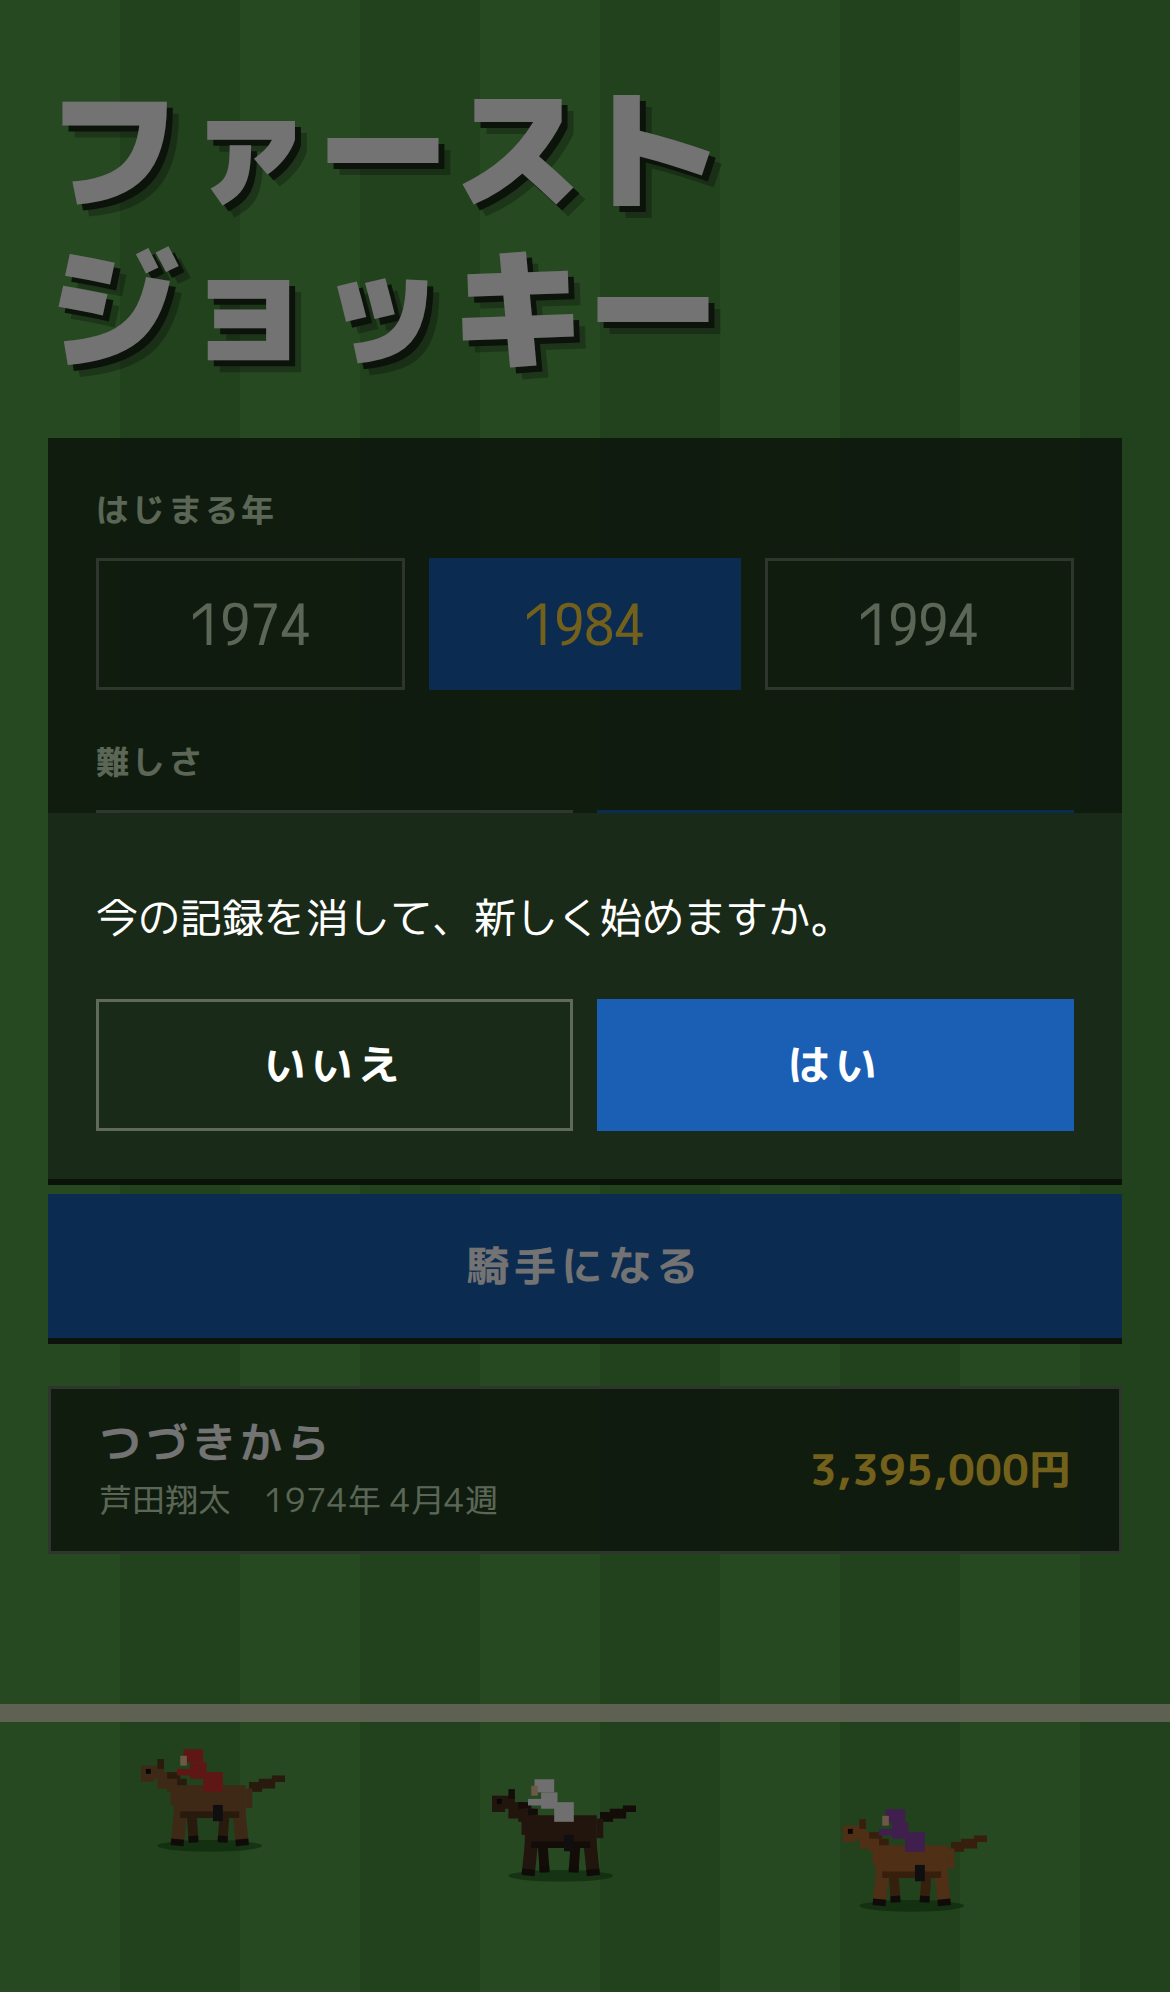
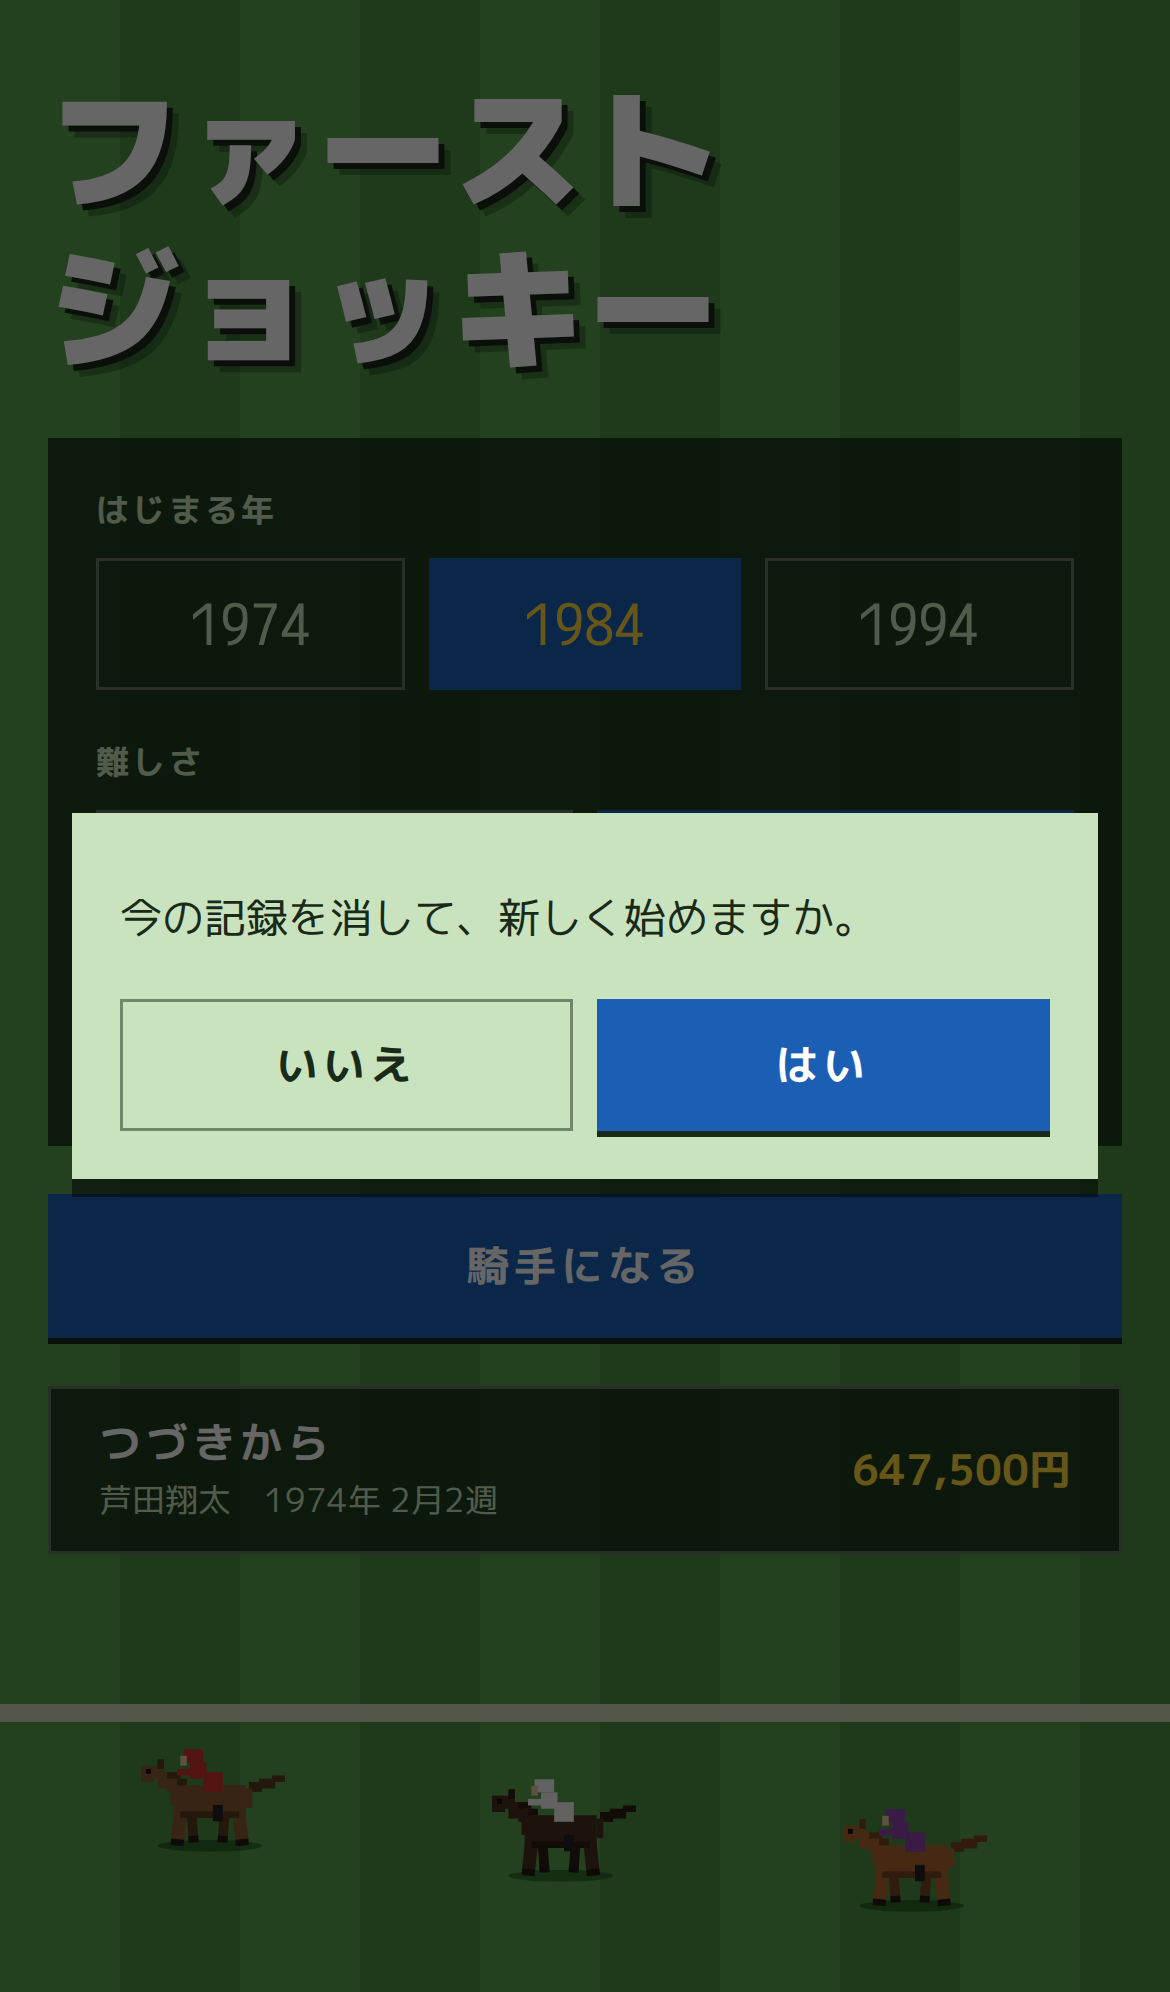
本筋4を完了：上書きの確認の小窓を手前の面に直し、記録を仕上げた
⚠絵を見たところ小窓の地が後ろの窓と同じ暗い緑系で、別の面として立たず
「難しさ」の行を切っている崩れに見えたため、地を--mutedの明るい面にし、
左右を--s1ずつ狭め、ぼかしの無い影で浮かせた。新しい色は足していない。

ARCHITECTURE.md §14にpropsの形・案Bの決まり・触ると壊れる点（名前と日付の
nowrap）・既知の制限（iPhone SEで52px伸びる）を記載。TODO #13は完了につき削除。

⚠ARCHITECTURE.mdが64,563バイトになりReadの上限を超えたため#103に上げた。

Claude-Session: https://claude.ai/code/session_01HkysCVjR5EveLfErmFi38W

Changed region(s): [[0.0615, 0.4046, 0.9538, 0.6225], [0.6769, 0.7159, 0.8308, 0.747], [0.3692, 0.747, 0.4, 0.7781]]

diff --git a/src/screens/TitleScreen.css b/src/screens/TitleScreen.css
@@ -225,29 +225,35 @@
   white-space: nowrap;
 }
 
-/* ===== 上書きの確認：画面を覆う小窓 ===== */
+/* ===== 上書きの確認：画面を覆う小窓 =====
+   小窓の地は、この画面で唯一の明るい面（`--muted`の淡い緑）。役割＝「手前に出て画面を止める面」。
+   最初は後ろの窓と同じ`#1a2a18`で作ったが、後ろの窓（`--panel`）と同じ色・同じ幅だったため
+   別の面に見えず、後ろの選択肢を途中で切る形が表示の崩れに見えた（2026-09-19・実アプリで確認）。
+   直し：地を明るくし、文字を暗くし、左右を後ろの窓より`--s1`ずつ狭めて後ろの窓の縁を見せ、
+   硬い影を落として浮かせた。新しい色は足していない（`--muted`は既存。文字の暗色は窓の色`#1a2a18`）。 */
 
 .title-screen__modal {
   position: absolute;
   inset: 0;
   z-index: 5;
-  background: rgba(0, 0, 0, 0.55);
+  background: rgba(0, 0, 0, 0.6);
   display: flex;
   align-items: center;
   justify-content: center;
-  padding: var(--s2);
+  padding: var(--s3);
 }
 .title-screen__modal-box {
   width: 100%;
   max-width: 400px;
-  background: #1a2a18;
+  background: var(--muted);
+  color: #1a2a18;
   padding: var(--s3) var(--s2) var(--s2);
-  box-shadow: 0 2px 0 #0a120a;
+  box-shadow: 0 6px 0 rgba(0, 0, 0, 0.5);
 }
 .title-screen__confirm-msg {
   font-size: var(--fs-body);
   line-height: 1.6;
-  color: #fff;
+  color: #1a2a18;
   margin: 0 0 var(--s2);
 }
 .title-screen__confirm-btns {
@@ -258,7 +264,7 @@
 .title-screen__confirm-btns .title-screen__start {
   min-height: var(--tap);
 }
-/* 塗らないボタン（「いいえ」）。未選択の選択肢と同じ1px枠 */
+/* 塗らないボタン（「いいえ」）。明るい地の上なので、枠と文字は窓の暗色 */
 .title-screen__ghost {
   all: unset;
   box-sizing: border-box;
@@ -268,18 +274,19 @@
   display: flex;
   align-items: center;
   justify-content: center;
-  border: 1px solid rgba(255, 255, 255, 0.3);
-  color: #fff;
+  border: 1px solid rgba(26, 42, 24, 0.5);
+  color: #1a2a18;
   font-family: "M PLUS 1p", sans-serif;
   font-weight: 700;
   font-size: var(--fs-body);
   letter-spacing: 0.12em;
 }
 .title-screen__ghost:hover {
-  border-color: rgba(255, 255, 255, 0.55);
+  border-color: #1a2a18;
 }
-.title-screen__ghost:focus-visible {
-  outline: 2px solid var(--accent);
+.title-screen__ghost:focus-visible,
+.title-screen__modal-box .title-screen__start:focus-visible {
+  outline: 2px solid #1a2a18;
   outline-offset: 2px;
 }
 

diff --git a/design/mocks/title-continue-v2.html b/design/mocks/title-continue-v2.html
@@ -110,15 +110,17 @@ h2 small{display:block;font-size:var(--fs-body);font-weight:400;color:#9fb896;ma
 .strip__money{flex:none;font-size:var(--fs-body);font-weight:700;color:var(--accent);font-variant-numeric:tabular-nums;white-space:nowrap}
 
 /* 上書きの確認：画面を覆う小窓（.title-screen の直下に置き、馬の帯まで含めて覆う） */
-.modal{position:absolute;inset:0;z-index:5;background:rgba(0,0,0,.55);display:flex;align-items:center;justify-content:center;padding:var(--s2)}
-.modal__box{width:100%;max-width:400px;background:#1a2a18;padding:var(--s3) var(--s2) var(--s2);box-shadow:0 2px 0 #0a120a}
-.cf__msg{font-size:var(--fs-body);line-height:1.6;color:#fff;margin-bottom:var(--s2)}
+/* 小窓の地は`--muted`（この画面で唯一の明るい面）。後ろの窓と同じ暗色・同じ幅だと別の面に見えなかったので、
+   地を明るく・文字を暗く・左右を`--s1`ずつ狭めて後ろの窓の縁を見せ・硬い影で浮かせた（2026-09-19の直し） */
+.modal{position:absolute;inset:0;z-index:5;background:rgba(0,0,0,.6);display:flex;align-items:center;justify-content:center;padding:var(--s3)}
+.modal__box{width:100%;max-width:400px;background:var(--muted);color:#1a2a18;padding:var(--s3) var(--s2) var(--s2);box-shadow:0 6px 0 rgba(0,0,0,.5)}
+.cf__msg{font-size:var(--fs-body);line-height:1.6;color:#1a2a18;margin-bottom:var(--s2)}
 .cf__btns{display:grid;grid-template-columns:1fr 1fr;gap:var(--s1)}
 .cf__btns .title-screen__start{min-height:var(--tap)}
 /* 塗らないボタン（「いいえ」）。未選択の選択肢と同じ1px枠 */
-.ts-ghost{all:unset;box-sizing:border-box;cursor:pointer;width:100%;min-height:var(--tap);display:flex;align-items:center;justify-content:center;border:1px solid rgba(255,255,255,.3);color:#fff;font-family:"M PLUS 1p",sans-serif;font-weight:700;font-size:var(--fs-body);letter-spacing:.12em}
-.ts-ghost:hover{border-color:rgba(255,255,255,.55)}
-.ts-ghost:focus-visible{outline:2px solid var(--accent);outline-offset:2px}
+.ts-ghost{all:unset;box-sizing:border-box;cursor:pointer;width:100%;min-height:var(--tap);display:flex;align-items:center;justify-content:center;border:1px solid rgba(26,42,24,.5);color:#1a2a18;font-family:"M PLUS 1p",sans-serif;font-weight:700;font-size:var(--fs-body);letter-spacing:.12em}
+.ts-ghost:hover{border-color:#1a2a18}
+.ts-ghost:focus-visible{outline:2px solid #1a2a18;outline-offset:2px}
 </style></head><body><div class="wrap">
 
 <h1>タイトル画面「つづきから」v2</h1>

diff --git a/TODO.md b/TODO.md
@@ -64,8 +64,8 @@
    ⭐**背後のロジック（土日の割り当て・1日1場・断るコスト・重賞に乗れるかの判定）は
    2026-09-17に実装・実測済み**（`devlog/wave09.md`§10）。⚠**残る前提は#89（行けない
    競馬場の依頼が混ざる週の見せ方）——画面の実装と合わせて決める。**
-4. **セーブを作る**（#13）。⭐**ロジックは2026-09-19に完了**（IndexedDBへ1人1件の自動セーブ・
-   `devlog/wave10.md`§11）。残るのはタイトル画面「つづきから」ボタンの見た目（#13）。
+4. ~~**セーブを作る**~~ ⭐**2026-09-19に完了**（`devlog/wave10.md`§11・§12）。
+   IndexedDBへ1人1件の自動セーブ＋タイトル画面の「つづきから」（案B）＋上書きの確認。
 5. **ユーザーが1年目を通しプレイ**。
 
 ## やらないと決めたこと（再提案しないこと）
@@ -215,13 +215,6 @@
     ⚠「NPC騎手にプレイヤー専用の分岐を作らない」（§6）を守るなら、**新人ランクのNPCにも
     プレイヤーと同じ生成規則を適用する**のが筋。⑦のsim実装か、1年目のバランス計測で
     数値が出た時点で対応する。
-
-13. ⭐**セーブのロジックは2026-09-19に完了**（IndexedDBへ1人1件の自動セーブ。仕様は
-    `ARCHITECTURE.md`§14・経緯は`devlog/wave10.md`§11）。**残るのはタイトル画面
-    「つづきから」ボタンの見た目だけ**——`TitleScreen.jsx`は2026-09-06にFableの§8手順で
-    確定済みの画面なので、新しい要素を足すには同じ手順（候補提示→選択→合意→実装）を
-    もう一度通す必要がある。ロジック側（`hasSave`/`onContinue`のprops）は`app.jsx`に
-    配線済みなので、Fableの手順②は見た目だけ作ればよい。
 
 15. ⚠**JRA番組表PDFの復号ルートを作る**（2026-09-04の調査で道筋が見えた・`devlog/wave02.md`）。
     ARCHITECTURE.md §3が「1年分の番組表＝未解決」としている件。**`pypdf` 6.16.2はプリインストール済み**で
@@ -548,6 +541,14 @@
      ⭐**本筋4で「つづきから」に所持金を出すと決めたため、増えるだけの数字を
      タイトル画面に出すことになる。** CLAUDE.md §0-2「奪う側の設計」に関わる。
      #27（平日の行動の配線）と同時に見ること。
+
+103. ⚠**`ARCHITECTURE.md`が64,563バイトになり、1回のReadで読み切れる上限を超えた**
+     （2026-09-19・本筋4の§14を書き足した時点で実測）。CLAUDE.md §4の換算（約2.5〜2.6バイト/
+     トークン・Read上限25,000トークン＝実質64,000バイト）を超えている。
+     ⚠**切り捨ては末尾から起きるので、真っ先に読めなくなるのは末尾の§15
+     「未定義のまま実装に入ると詰まる箇所」**——2026-09-04に一度同じ事故を起こした場所である。
+     ⭐直し方は前回と同じ：大きい節を`arch/*.md`へ切り出し、本体には索引だけを残す。
+     候補は§6「奪う器官」（信頼・落馬・疲労・所属）と§11「導入（最初の3分）」。
 
 ## ユーザー作業（未完了）
 

diff --git a/ARCHITECTURE.md b/ARCHITECTURE.md
@@ -743,10 +743,22 @@ A/B比較では各アームの直前に**全アーム共通の副シードへ張
 - **夢の馬のID**（`dreamHorseId`）は`generateDreamHorse(saveSeed)`が`saveSeed`だけから決定的に
   導出する純関数なので、`saveSeed`さえ保存されていれば`generateDreamHorse(saveSeed).id`で
   いつでも再現できる。専用フィールドは不要（配合の弾で回収するときも同じ経路を使う）。
-- タイトル画面からの再開（「つづきから」ボタン）：ロジックは`src/app.jsx`の`handleContinue`が
-  持つ（`existingSave`を起動時に読み、`hasSave`/`onContinue`を`TitleScreen`へpropsで渡す）。
-  ⚠**ボタンの見た目は未実装**（`TitleScreen.jsx`は2026-09-06にFableの§8手順で確定済みの画面
-  なので、新しい要素を足すには同じ手順のやり直しが要る。`TODO.md` #13）。
+- タイトル画面からの再開（「つづきから」）：`src/app.jsx`が起動時に`readSave()`を呼んで
+  `existingSave`に持ち、`TitleScreen`へ4つのpropsを渡す——`onStart`・`hasSave`（真偽値）・
+  `onContinue`（`handleContinue`。保存の`roster`/`player`をそのまま`gameState`へ入れ
+  `phase`を`"week"`にする）・`saveSummary`（`{ name, weekLabel, money } | null`。
+  `weekLabel`は`formatWeekLabel(player.currentYear, player.currentWeek)`で作る）。
+- 見た目は**案B**（2026-09-19にユーザーが3案から選択。`devlog/wave10.md`§12）。
+  「騎手になる」の下に記録の1枚を置き、**青く塗らない**（主ボタンは「騎手になる」のまま＝
+  §9「主ボタンは1画面に1つ」）。所持金は`toLocaleString("ja-JP")+"円"`の形。
+  ⚠保存がある状態で「騎手になる」を押すと**上書きの確認**を1回挟む
+  （`.title-screen__modal`。`.title-screen`直下に置く——`__content`の中だと画面の下を走る馬を
+  覆えない）。保存が無いときは確認を出さずすぐ`onStart`を呼ぶ。
+- ⚠**触ると壊れる**：記録の1枚の名前と日付は、それぞれ`white-space: nowrap`の`<span>`で、
+  折り返してよい場所を両者の間だけに限っている。外すと320px・名前8文字（上限）のとき
+  「1974年 4」「月4週」と週の途中で割れる。
+- ⚠**既知**：iPhone SE（320×568）では記録の1枚のぶん画面が縦に52px伸び、画面の下を走る馬の
+  一部が最初の画面より下に出る（押せるものは全部収まっている。2026-09-19に直さないと決定）。
 
 ---
 
